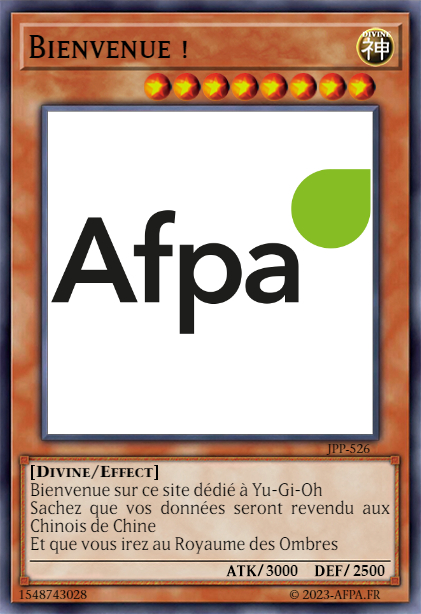
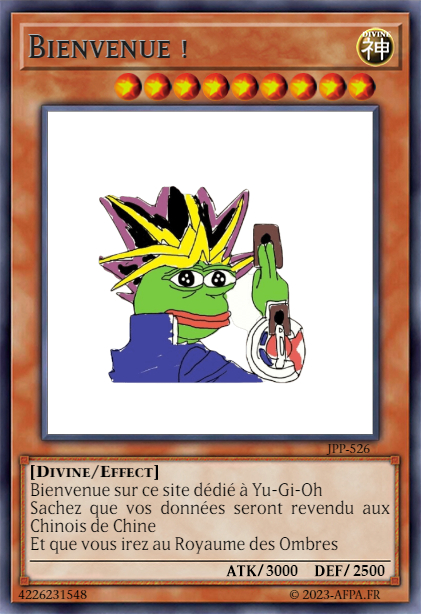
ajout card stickers

diff --git a/index.html b/index.html
@@ -13,36 +13,23 @@
 </head>
 <body>
     <!-- PopUp -->
-    <div class="popup">
-        <div class="popup-content bg-primary text-dark">
-            <h2 class="text-center">Règles</h2>
-            <p class="text-center m-3">Comment jouez</p>
-            <ul>
-                <li>Cliquez sur le bouton "Commencer"</li>
-                <li>Entrez un prix entre 0 et 100.</li>
-                <li>Validez.</li>
-                <li>Vous possedez 10 tentatives pour trouver le bon prix.</li>
-                <p class="BonChan text-center m-3  bg-info">Bonne Chance</p>
-            </ul>
-            <span class="close-btn">X</span>
-        </div>
-    </div>
-    <div class="card">
+  <div class="card popup">
     <div class="flip-card">
         <div class="flip-card-inner">
           <div class="flip-card-front">
-            <img src="assets/img/backCard.png" alt="dos de carte yu-gi-oh" style="width:400px;height:550px;">
+            <img src="assets/img/backCardLogoPepe.png" alt="dos de carte yu-gi-oh" class="coreCard" style="width:320px;height:470px;">
           </div>
           <div class="flip-card-back">
-            <img src="assets/img/frontCard.jpg" alt="carte yu-gi-oh " style="width:400px;height:550px;">
+            <img src="assets/img/frontCard.jpg" alt="carte yu-gi-oh " class="coreCard" style="width:320px;height:470px;">
           </div>
         </div>
       </div>
     </div>
+
     <!-- Navbar -->
     <nav class="navbar navbar-expand-lg bg-body-tertiary">
         <div class="container-fluid">
-          <a class="navbar-brand" href="#">Navbar</a>
+          <a class="navbar-brand" href="#"><img src="assets/img/Yu-Gi-Oh_Logo.png" alt="logo yu-gi-oh" style="width: 200px;"></a>
           <button class="navbar-toggler" type="button" data-bs-toggle="collapse" data-bs-target="#navbarSupportedContent" aria-controls="navbarSupportedContent" aria-expanded="false" aria-label="Toggle navigation">
             <span class="navbar-toggler-icon"></span>
           </button>

diff --git a/assets/js/script.js b/assets/js/script.js
@@ -2,23 +2,36 @@ window.onload = ()=> {
     let popup = document.querySelector('.popup');
     popup.style.display = 'block';
 }
-
-// Fermeture du popup quand on clique sur la croix ou sur BonChan :D
-let closeBtn = document.querySelector('.close-btn');
-closeBtn.addEventListener('click', function () {
-    let popup = document.querySelector('.popup');
-    popup.style.display = 'none';
-});
-let BonChan = document.querySelector('.BonChan');
-    BonChan.addEventListener('click', function () {
-    let popup = document.querySelector('.popup');
-    popup.style.display = 'none';
-});
-
 let card = document.querySelector('.card');
+
+// retournement de la carte popup quand on clique dessus :D
 let flipInner = document.querySelector('.flip-card-inner');
-const audio = new Audio('assets/sound/cest-lheure-du-du-duel.mp3');
-card.addEventListener("click", function(){
+flipInner.addEventListener('click', function () {
     flipInner.style.transform = "rotateY(180deg)";
-    audio.play();
+    const audio = new Audio('assets/sound/cest-lheure-du-du-duel.mp3');
+    let audioPlayed = false; // initial value is false  
+    if (!audioPlayed.play()) {
+        audioPlayed.play();
+        console.log("Audio played!");  // Replace with your own code to play the audio
+    
+        audioPlayed = true; // update the variable to true
+      }
 });
+
+
+let backCard = document.querySelector('.flip-card-back');
+backCard.addEventListener('click',function() {
+    card.style.display = 'none';
+})
+
+
+// fetch data from json file
+fetch('assets/json/ecommerce.json', {
+    method: 'GET',
+    headers: {
+        'Accept': 'application/json',
+    },
+})
+   .then(response => response.json())
+   .then(response => console.log(JSON.stringify(response)))
+   

diff --git a/assets/css/style.css b/assets/css/style.css
@@ -1,5 +1,5 @@
 body{
-    background: url('/assets/img/HieroglypheBG.jpg') repeat;
+    background: url('../img/HieroglypheBG.jpg') repeat;
 } 
 
 .popup {
@@ -76,7 +76,11 @@ body{
   }
 
 
-.flip-card{
-    display: flex;
-    justify-content: center;
+  /* Don't touch */
+.coreCard{
+  position: absolute;
+  top:22vh;
+  left: 0;
+  right: 0;
+  margin: auto;
 }
